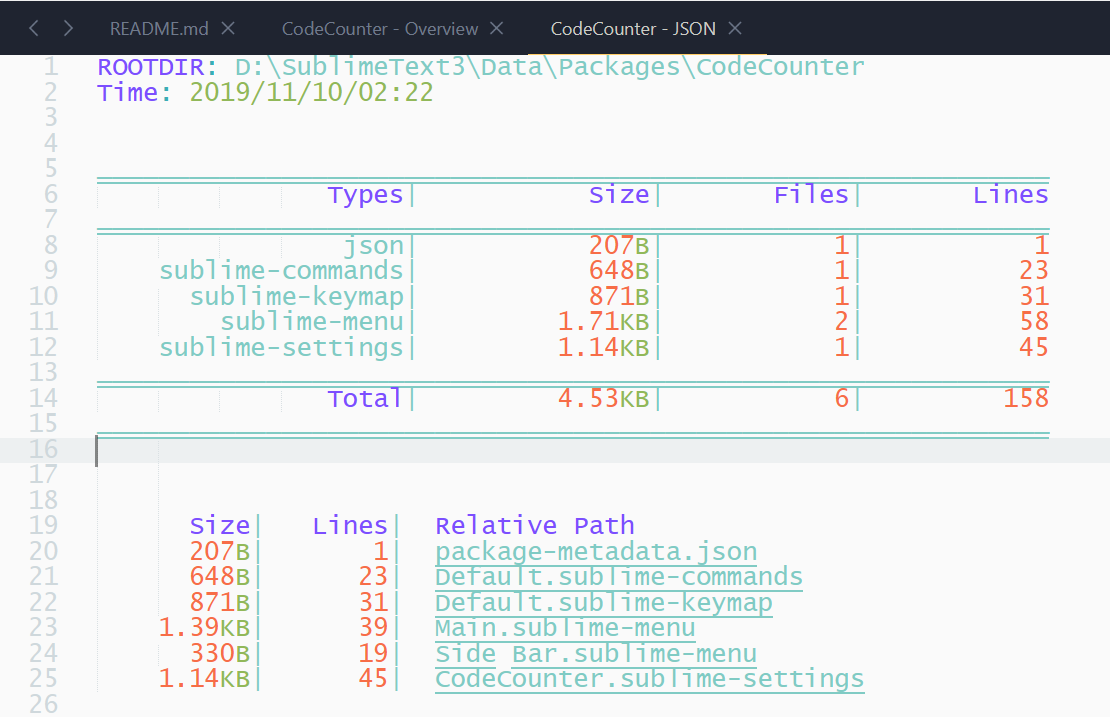
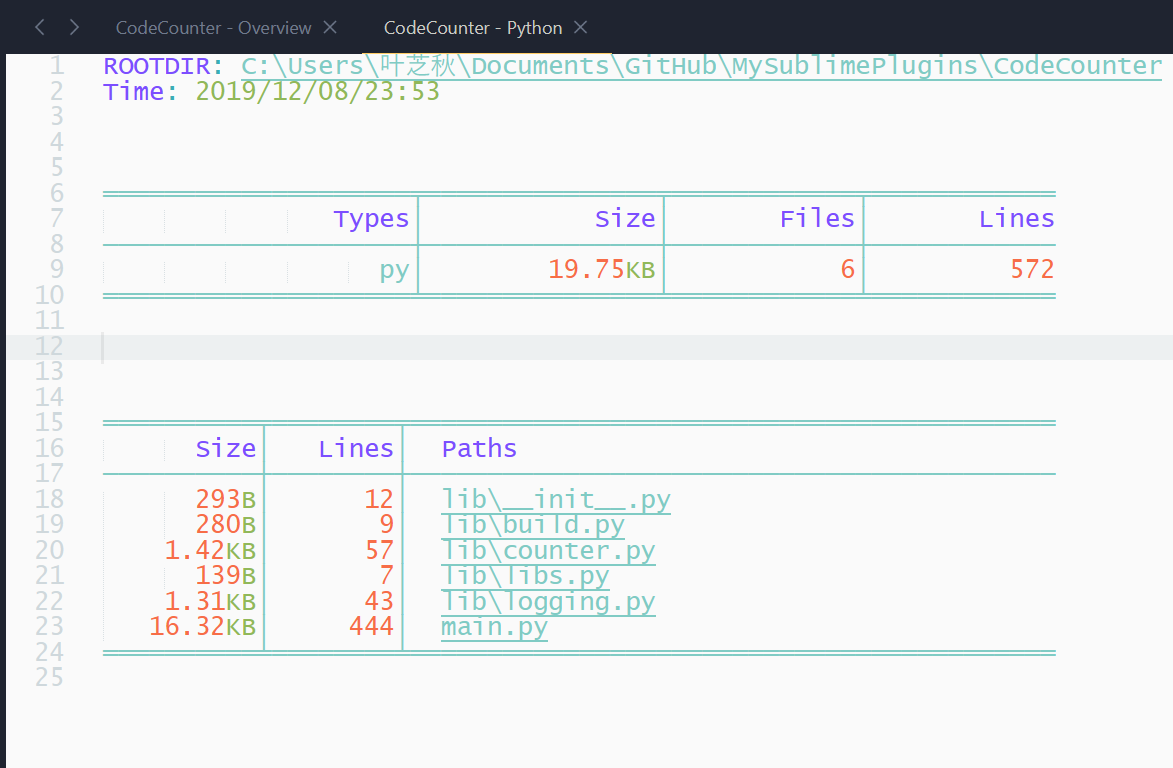
Improved results table.

Changed region(s): [[0.0, 0.0, 1.0, 1.0]]

diff --git a/main.py b/main.py
@@ -9,6 +9,27 @@ from .lib import Loger
 from .lib import counter
 from .lib import strsize
 
+
+singleline = "%20s│%15s│%12s│%12s"
+tabulation = """
+════════════════════╤═══════════════╤════════════╤════════════
+{caption}
+────────────────────┼───────────────┼────────────┼────────────
+{content}
+════════════════════╧═══════════════╧════════════╧════════════
+"""
+summary = """
+────────────────────┼───────────────┼────────────┼────────────
+{}"""
+link_sheet = """
+══════════╤════════╤══════════════════════════════════════════
+      Size│   Lines│  Paths
+──────────┼────────┼──────────────────────────────────────────
+{}
+══════════╧════════╧══════════════════════════════════════════
+"""
+
+
 class CodeCounterToggleLogCommand(sublime_plugin.WindowCommand):
     def run(self):
         Loger.debug = not Loger.debug
@@ -170,7 +191,7 @@ class CodeCounterViewsManager(sublime_plugin.EventListener):
 
     @classmethod
     def do_count(cls, rootdir, filter):
-        def store_path(lang_first, type_second, path):
+        def store_path(_lang, _type, _path, relpath):
             """ data structure layout:
             {
                 language-name:  [
@@ -186,49 +207,52 @@ class CodeCounterViewsManager(sublime_plugin.EventListener):
             }
             """
             try:
-                nlines = counter.count(path)
+                nlines = counter.count(_path)
             except:
                 nlines = 0
             try:
-                fsize = os.path.getsize(path)
+                fsize = os.path.getsize(_path)
             except:
                 fsize = 0
-            relpath = os.path.relpath(path, rootdir)
 
-            if lang_first not in counting_tree:
-                counting_tree[lang_first] = [
+            if _lang not in counting_tree:
+                counting_tree[_lang] = [
                     0,
                     0,
                     0,
                     {}
                 ]
-            lang_storage = counting_tree[lang_first]
+            lang_storage = counting_tree[_lang]
 
             lang_storage[0] += fsize
             lang_storage[1] += 1
             lang_storage[2] += nlines
-            if type_second not in lang_storage[3]:
-                lang_storage[3][type_second] = []
+            if _type not in lang_storage[3]:
+                lang_storage[3][_type] = []
 
-            lang_storage[3][type_second].append((relpath, nlines, fsize))
+            lang_storage[3][_type].append((relpath, nlines, fsize))
 
-        def handle_file(file, path):
+        def handle_file(file, path, relpath="."):
             if file in cls.language_fullnames:
-                store_path(cls.language_fullnames[file], file, path)
+                _lang = cls.language_fullnames[file]
+                _type = file
             else:
-                ext = os.path.splitext(file)[1].lstrip(".")
-                if ext in cls.language_extensions:
-                    store_path(cls.language_extensions[ext], ext, path)
+                _type = os.path.splitext(file)[1].lstrip(".")
+                if _type not in cls.language_extensions:
+                    return
+                _lang = cls.language_extensions[_type]
+            store_path(_lang, _type, path, relpath)
 
         def walk_dir(dir):
             for file in sorted(os.listdir(dir)):
                 path = os.path.join(dir, file)
-                if not (os.path.exists(path) and filter(path)):
+                relpath = os.path.relpath(path, rootdir)
+                if not (os.path.exists(path) and filter(relpath)):
                     continue
                 if os.path.isdir(path):
                     walk_dir(path)
                 else:
-                    handle_file(file, path)
+                    handle_file(file, path, relpath)
 
 
         counting_tree = {}
@@ -255,27 +279,25 @@ class CodeCounterViewsManager(sublime_plugin.EventListener):
         total_files_size = 0
         total_files_number = 0
         total_lines_number = 0
-
-        fmt = "%20s|%15s|%12s|%12s\n"
-        header = "ROOTDIR: %s\nTime: %s\n\n\n" % (rootdir, ctime)
-        title = fmt % ("Languages", "Size", "Files", "Lines")
-        thread = "_" * (len(title) - 1) + "\n"
-
-        summary = ""
+        itmes = []
         for lang in sorted(overview_tree):
             tuple4 = overview_tree[lang]
             total_files_size += tuple4[0]
             total_files_number += tuple4[1]
             total_lines_number += tuple4[2]
             sstr = strsize(tuple4[0])
-            summary += fmt % (lang, sstr, tuple4[1], tuple4[2])
+            itmes.append(singleline % (lang, sstr, tuple4[1], tuple4[2]))
 
-        summary += fmt % ("Total",
-            strsize(total_files_size),
-            total_files_number,
-            total_lines_number)
+        caption = singleline % ("Languages", "Size", "Files", "Lines")
+        content = "\n".join(itmes)
+        if len(itmes) > 1:
+            content += summary.format(singleline % ("Total",
+                strsize(total_files_size),
+                total_files_number,
+                total_lines_number))
 
-        overview_text = thread.join([header, title, summary, ""])
+        overview_text = "ROOTDIR: %s\nTime: %s\n\n\n" % (rootdir, ctime)
+        overview_text += tabulation.format(caption=caption, content=content)
 
         view = window.new_file()
         view.assign_syntax("code-counter.sublime-syntax")
@@ -288,40 +310,33 @@ class CodeCounterViewsManager(sublime_plugin.EventListener):
         view.run_command('append', {'characters': overview_text})
         view.set_scratch(True)
         view.set_read_only(True)
-        cls.load_overview_view(view)
+        cls.add_underline_for_paths(view)
 
     @classmethod
     def detail(cls, view, rootdir, ctime, lang, detail_tree):
         Loger.print("Detail language:", lang)
         fsize, fnumber, lnumber, types = detail_tree
-
-        xxx = max(20, max(len(_type) for _type in types))
-        fmt = "%*s|%15s|%12s|%12s\n"
-
-        header = "ROOTDIR: %s\nTime: %s\n\n\n" % (rootdir, ctime)
-        title = fmt %(xxx, "Types", "Size", "Files", "Lines")
-        total = fmt %(xxx, "Total", strsize(fsize), fnumber, lnumber)
-        thread = "_" * (len(title) - 1) + "\n"
-
-        entrys, links = "", ""
+        itmes, paths = [], []
         for _type in sorted(types):
-            files_size, lines_number = 0, 0
             tuple3s = types[_type]
-            # links += ("\n" + _type + ":\n")
-            for relpath, nlines, fsize in tuple3s:
-                files_size += fsize
-                lines_number += nlines
-                fsize = strsize(fsize)
-                links += "%10s|%8d|  %s\n" % (fsize, nlines, relpath)
+            files_size, lines_number = 0, 0
+            for relpath, nl, fs in tuple3s:
+                files_size += fs
+                lines_number += nl
+                fs = strsize(fs)
+                paths.append("%10s│%8d│  %s" % (fs, nl, relpath))
+            itmes.append(singleline % (_type[:20],
+                strsize(files_size), len(tuple3s), lines_number))
 
-            files_size = strsize(files_size)
-            files_number = len(tuple3s)
-            entrys += fmt %(xxx, _type, files_size, files_number, lines_number)
+        caption = singleline %("Types", "Size", "Files", "Lines")
+        content = "\n".join(itmes)
+        if len(itmes) > 1:
+            content += summary.format(singleline %("Total",
+                strsize(fsize), fnumber, lnumber))
 
-        summary = thread.join([header, title, entrys, total, ""])
-
-        link_title = "%10s|%8s|  %s\n" % ("Size", "Lines", "Relative Path")
-        detail_text = summary + "\n\n\n" + link_title + links
+        detail_text = "ROOTDIR: %s\nTime: %s\n\n\n" % (rootdir, ctime)
+        detail_text += tabulation.format(caption=caption, content=content)
+        detail_text += "\n\n\n" + link_sheet.format("\n".join(paths))
 
         v = view.window().new_file()
         v.assign_syntax("code-counter.sublime-syntax")
@@ -333,36 +348,24 @@ class CodeCounterViewsManager(sublime_plugin.EventListener):
         v.run_command('append', {'characters': detail_text})
         v.set_scratch(True)
         v.set_read_only(True)
-        cls.load_detail_view(v)
+        cls.add_underline_for_paths(v)
 
     @classmethod
-    def add_regions(cls, view, regions):
-        view.add_regions("underlines", regions,
-            scope="cs.underlines",
+    def add_underline_for_paths(cls, view):
+        regions = view.find_by_selector("entity.name.filename")
+        view.add_regions("code-counter", regions,
+            scope="entity.name.filename",
             flags=sublime.DRAW_NO_FILL|sublime.DRAW_NO_OUTLINE|
                 sublime.DRAW_SOLID_UNDERLINE|sublime.HIDE_ON_MINIMAP)
         cls.underlined_views[view.view_id] = True
 
     @classmethod
-    def load_overview_view(cls, view):
-        regions = view.find_by_selector("thread.header")
-        cls.add_regions(view, regions)
-
-    @classmethod
-    def load_detail_view(cls, view):
-        regions = view.find_by_selector("thread.header")
-        regions.extend(view.find_by_selector("meta.path"))
-        cls.add_regions(view, regions)
-
-    @classmethod
     def try_add_underlines(cls, view):
         if view.view_id in cls.underlined_views:
             return
-        if view.settings().has("code_overview"):
-            cls.load_overview_view(view)
-
-        elif view.settings().has("code_detail"):
-            cls.load_detail_view(view)
+        if (view.settings().has("code_detail") or
+            view.settings().has("code_overview")):
+            cls.add_underline_for_paths(view)
 
     def on_activated(self, view):
         CodeCounterViewsManager.try_add_underlines(view)
@@ -376,10 +379,10 @@ class CodeCounterViewsManager(sublime_plugin.EventListener):
             pt = view.window_to_text((event["x"], event["y"]))
             if view.settings().has("code_detail"):
                 if CodeCounterViewsManager.try_open_file(view, pt):
-                    return ("drag_select", args)
+                    return (name, args)
             elif view.settings().has("code_overview"):
                 if CodeCounterViewsManager.try_detail(view, pt):
-                    return ("drag_select", args)
+                    return (name, args)
 
 
 def configure_code_counter(settings):
